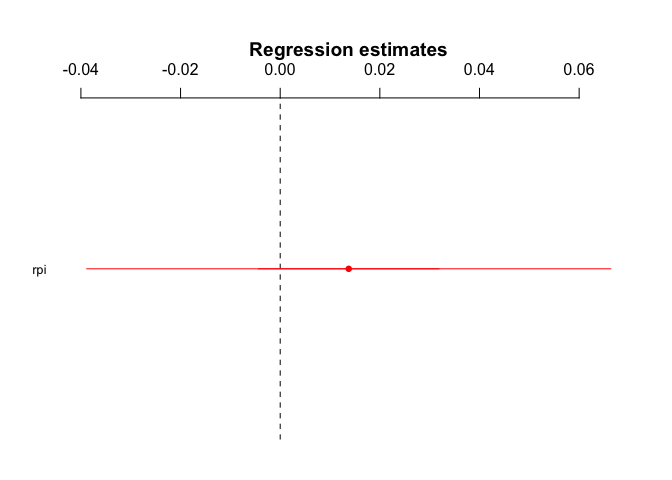
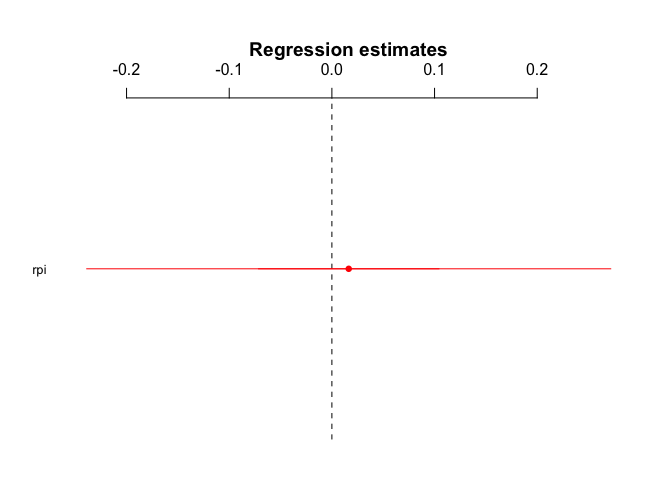
added hypotheses

diff --git a/hypotheses/H2.3.md b/hypotheses/H2.3.md
@@ -37,67 +37,71 @@ Results
 
 -   We extracted activity in the mentalizing ROI, which was defined by searching the reverse-inference map on Neurosynth (Yarkoni, Poldrack, Nichols, Van Essen, & Wager, 2011) database using the term ‘mentalizing', identifying regions to be associated with mentalizing activity in 124 published neuroscience studies. ![](img/neurosynth_ment.png)
 
--   Activity in this ROI was extracted for the main contrast of interest: sharing (broad- and narrowcasting) &gt; non-sharing (self and topic)
--   Then, we conducted linear regressions to determine if activity in the mentalizing ROI was associated with individuals' 1) resistance to peer influence (RPI) and 2) susceptibility to peer pressure (SPP)
+-   Activity in this ROI was extracted for the main contrast of interest: sharing (broad- and narrowcasting) &gt; non-sharing (self and topic).
+-   Then, we conducted linear regressions to determine if activity in the mentalizing ROI was associated with individuals' 1) resistance to peer influence (RPI) and 2) susceptibility to peer pressure (SPP).
 
 <strong>1) Resistance to Peer Influence (RPI):</strong><br>
 
-    ## lm(formula = SHAREvsNONSHARE_reading ~ rpi, data = df_combined_ment)
+    ## lm(formula = SHAREvsNONSHARE_both ~ rpi, data = df_combined_ment)
 
     ##             Estimate   2.5% 97.5%
-    ## (Intercept)    0.034 -0.097 0.165
-    ## rpi            0.014 -0.039 0.066
+    ## (Intercept)    0.213 -0.422 0.847
+    ## rpi            0.016 -0.239 0.272
 
 ![](H2.3_files/figure-markdown_github-ascii_identifiers/unnamed-chunk-7-1.png)
 
     ## 
     ## Call:
-    ## lm(formula = SHAREvsNONSHARE_reading ~ rpi, data = df_combined_ment)
+    ## lm(formula = SHAREvsNONSHARE_both ~ rpi, data = df_combined_ment)
     ## 
     ## Residuals:
-    ##       Min        1Q    Median        3Q       Max 
-    ## -0.136260 -0.035807 -0.009934  0.044530  0.146033 
+    ##      Min       1Q   Median       3Q      Max 
+    ## -0.51128 -0.19196 -0.04708  0.20172  1.21518 
     ## 
     ## Coefficients:
     ##             Estimate Std. Error t value Pr(>|t|)
-    ## (Intercept)  0.03401    0.06669   0.510    0.613
-    ## rpi          0.01376    0.02683   0.513    0.611
+    ## (Intercept)  0.21270    0.32362   0.657    0.515
+    ## rpi          0.01641    0.13020   0.126    0.900
     ## 
-    ## Residual standard error: 0.06219 on 39 degrees of freedom
-    ## Multiple R-squared:  0.006695,   Adjusted R-squared:  -0.01877 
-    ## F-statistic: 0.2629 on 1 and 39 DF,  p-value: 0.6111
+    ## Residual standard error: 0.3018 on 39 degrees of freedom
+    ## Multiple R-squared:  0.000407,   Adjusted R-squared:  -0.02522 
+    ## F-statistic: 0.01588 on 1 and 39 DF,  p-value: 0.9004
 
 <strong>2) Susceptibility to Peer Pressure:</strong><br>
 
-    ## lm(formula = SHAREvsNONSHARE_reading ~ spp, data = df_combined_ment)
+    ## lm(formula = SHAREvsNONSHARE_both ~ spp, data = df_combined_ment)
 
     ##             Estimate   2.5% 97.5%
-    ## (Intercept)    0.002 -0.128 0.133
-    ## spp            0.026 -0.026 0.079
+    ## (Intercept)   -0.202 -0.825 0.421
+    ## spp            0.184 -0.065 0.433
 
 ![](H2.3_files/figure-markdown_github-ascii_identifiers/unnamed-chunk-9-1.png)
 
     ## 
     ## Call:
-    ## lm(formula = SHAREvsNONSHARE_reading ~ spp, data = df_combined_ment)
+    ## lm(formula = SHAREvsNONSHARE_both ~ spp, data = df_combined_ment)
     ## 
     ## Residuals:
-    ##       Min        1Q    Median        3Q       Max 
-    ## -0.134670 -0.031889 -0.002371  0.039454  0.146494 
+    ##     Min      1Q  Median      3Q     Max 
+    ## -0.4882 -0.1893 -0.0450  0.1726  1.1865 
     ## 
     ## Coefficients:
     ##             Estimate Std. Error t value Pr(>|t|)
-    ## (Intercept) 0.002233   0.066572   0.034    0.973
-    ## spp         0.026488   0.026597   0.996    0.325
+    ## (Intercept)  -0.2021     0.3177  -0.636    0.528
+    ## spp           0.1838     0.1269   1.448    0.156
     ## 
-    ## Residual standard error: 0.06162 on 39 degrees of freedom
-    ## Multiple R-squared:  0.0248, Adjusted R-squared:  -0.0002039 
-    ## F-statistic: 0.9918 on 1 and 39 DF,  p-value: 0.3254
+    ## Residual standard error: 0.2941 on 39 degrees of freedom
+    ## Multiple R-squared:  0.05102,    Adjusted R-squared:  0.02669 
+    ## F-statistic: 2.097 on 1 and 39 DF,  p-value: 0.1556
 
 ### Whole Brain Results
 
+<strong>1) Resistance to Peer Influence (RPI):</strong><br>
+
 -   Here are the whole brain results of the contrast: <strong>sharing (broad- and narrowcasting) &gt; non-sharing (self and topic)</strong> with a multi-level regression of resistance to peer influence scores. No significant clusters survived FDR correction at p=.05.
--   Here are exploratory results at p&lt;.005; k=5 that include clusters in the caudate, insula, and precentral gyrus. ![](img/H1_1_ego_betweenness_gDIFF_vs_NR.png) ![](img/H1_1_ego_betweenness_gDIFF_vs_NR_2.png)
+-   Here are exploratory results at p&lt;.005; k=5 that include clusters in the striatum. ![](img/H2_3_RPI_SHAREvsNONSHARE.png) ![](img/H2_3_RPI_SHAREvsNONSHARE_2.png)
+
+<strong>2) Susceptibility to Peer Pressure:</strong><br>
 
 -   Here are the whole brain results of the contrast: <strong>sharing (broad- and narrowcasting) &gt; non-sharing (self and topic)</strong> with a multi-level regression of susceptibility to peer pressure scores. No significant clusters survived FDR correction at p=.05.
--   Here are exploratory results at p&lt;.005; k=5 that include clusters in the caudate, insula, and precentral gyrus. ![](img/H1_1_ego_betweenness_gDIFF_vs_NR.png) ![](img/H1_1_ego_betweenness_gDIFF_vs_NR_2.png)
+-   Here are exploratory results at p&lt;.005; k=5 that include clusters in the dorsolateral prefrontal cortex, ventromedial prefrontal cortex, striatum, and cerebellum. ![](img/H2_3_SPP_SHAREvsNONSHARE.png) ![](img/H2_3_SPP_SHAREvsNONSHARE_2.png)

diff --git a/hypotheses/H3.3.md b/hypotheses/H3.3.md
@@ -1,11 +1,12 @@
-H3.3
+H3.3 - Interdependence and Mentalizing Activity
 ================
-@darpa\_study\_team
+@StudyTeam
 10/12/2017
 
 -   [Hypothesis](#hypothesis)
 -   [Results](#results)
-    -   [Model - Interdependence and mentalizing](#model---interdependence-and-mentalizing)
+    -   [ROI Results](#roi-results)
+    -   [Whole Brain Results](#whole-brain-results)
 
 Hypothesis
 ----------
@@ -24,7 +25,7 @@ Hypothesis
 <tbody>
 <tr class="odd">
 <td><strong>H3.3</strong>: The higher a participant’s score on the interdependence subscale of the self-construal scale, the stronger the activation in the mentalizing system and the more self-other overlap in the ventral-dorsal gradient of self/other-related MPFC activation when making sharing decisions in the Sharing Task (Contrast: Sharing vs. no sharing conditions).</td>
-<td>Not Significant (self/other gradient not tested) t(39)=-1</td>
+<td>Not Significant (self/other gradient not tested) t(39)=1.649</td>
 </tr>
 </tbody>
 </table>
@@ -32,31 +33,41 @@ Hypothesis
 Results
 -------
 
-### Model - Interdependence and mentalizing
+### ROI Results
 
-    ## lm(formula = SHAREvsNONSHARE_reading ~ scs_inter, data = df_combined_ment)
+-   We extracted activity in the mentalizing ROI, which was defined by searching the reverse-inference map on Neurosynth (Yarkoni, Poldrack, Nichols, Van Essen, & Wager, 2011) database using the term ‘mentalizing', identifying regions to be associated with mentalizing activity in 124 published neuroscience studies. ![](img/neurosynth_ment.png)
 
-    ##             Estimate 2.5% 97.5%
-    ## (Intercept)      0.1  0.0   0.2
-    ## scs_inter        0.0  0.0   0.0
+-   Activity in this ROI was extracted for the main contrast of interest: sharing (broad- and narrowcasting) &gt; non-sharing (self and topic)
+-   Then, we conducted linear regressions to determine if activity in the mentalizing ROI was associated with individuals' interdepdence subscale score from the self-construal scale.
 
-![](H3.3_files/figure-markdown_github-ascii_identifiers/unnamed-chunk-6-1.png)
+<!-- -->
+
+    ## lm(formula = SHAREvsNONSHARE_both ~ scs_inter, data = df_combined_ment)
+
+    ##             Estimate   2.5% 97.5%
+    ## (Intercept)   -0.235 -0.823 0.352
+    ## scs_inter      0.103 -0.020 0.226
+
+![](H3.3_files/figure-markdown_github-ascii_identifiers/unnamed-chunk-7-1.png)
 
     ## 
     ## Call:
-    ## lm(formula = SHAREvsNONSHARE_reading ~ scs_inter, data = df_combined_ment)
+    ## lm(formula = SHAREvsNONSHARE_both ~ scs_inter, data = df_combined_ment)
     ## 
     ## Residuals:
-    ##       Min        1Q    Median        3Q       Max 
-    ## -0.124713 -0.029955 -0.007744  0.039707  0.141598 
+    ##      Min       1Q   Median       3Q      Max 
+    ## -0.44135 -0.16002 -0.02778  0.13445  1.17313 
     ## 
     ## Coefficients:
-    ##             Estimate Std. Error t value Pr(>|t|)  
-    ## (Intercept)  0.13033    0.06060   2.151   0.0377 *
-    ## scs_inter   -0.01269    0.01269  -1.000   0.3235  
-    ## ---
-    ## Signif. codes:  0 '***' 0.001 '**' 0.01 '*' 0.05 '.' 0.1 ' ' 1
+    ##             Estimate Std. Error t value Pr(>|t|)
+    ## (Intercept) -0.23527    0.29967  -0.785    0.437
+    ## scs_inter    0.10345    0.06275   1.649    0.107
     ## 
-    ## Residual standard error: 0.05902 on 39 degrees of freedom
-    ## Multiple R-squared:  0.025,  Adjusted R-squared:  -3.053e-06 
-    ## F-statistic: 0.9999 on 1 and 39 DF,  p-value: 0.3235
+    ## Residual standard error: 0.2919 on 39 degrees of freedom
+    ## Multiple R-squared:  0.06515,    Adjusted R-squared:  0.04118 
+    ## F-statistic: 2.718 on 1 and 39 DF,  p-value: 0.1073
+
+### Whole Brain Results
+
+-   Here are the whole brain results of the contrast: <strong>sharing (broad- and narrowcasting) &gt; non-sharing (self and topic)</strong> with a multi-level regression of interdependence scores. No significant clusters survived FDR correction at p=.05.
+-   Here are exploratory results at p&lt;.005; k=5 that include clusters in the caudate, insula, and precentral gyrus. ![](img/H1_1_ego_betweenness_gDIFF_vs_NR.png) ![](img/H1_1_ego_betweenness_gDIFF_vs_NR_2.png)
